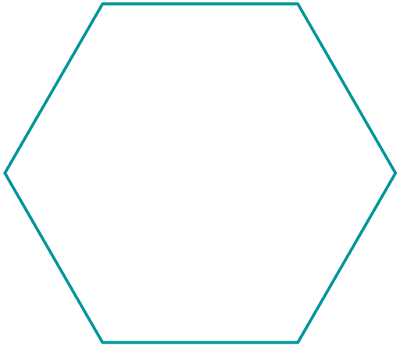
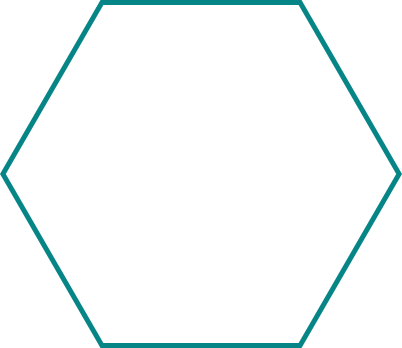
Fixing the Upcoming Projects page.

diff --git a/upcoming.html b/upcoming.html
@@ -49,37 +49,37 @@
 			<div class="honeycombs">
 				<!-- one -->
 				<div class="comb">
-					<img src="images/red.png" />
-					<div class="hexlabel">
-						<p>Fire Safety<br />patches<br />& t-shirts</p>
+					<img src="images/blue.png" />
+					<div class="hexlabel-upcoming">
+						<p>Fire Safety<br />patches & t-shirts</p>
 					</div>
 				</div>
 				<!-- two -->
 				<div class="comb">
-					<img src="images/red.png" />
-					<div class="hexlabel">
-						<p>Bike stickers<br />"one less<br />art car"</p>
+					<img src="images/blue.png" />
+					<div class="hexlabel-upcoming">
+						<p>Bike stickers<br />"one less art car"</p>
 					</div>
 				</div>
 				<!-- three -->
 				<div class="comb">
-					<img src="images/red.png" />
-					<div class="hexlabel">
-						<p>Bike<br />brake lights</p>
+					<img src="images/blue.png" />
+					<div class="hexlabel-upcoming">
+						<p>Bike brake lights</p>
 					</div>
 				</div>
 				<!-- four -->
 				<div class="comb">
-					<img src="images/red.png" />
-					<div class="hexlabel">
-						<p>cardboard<br />standing<br />desk</p>
+					<img src="images/blue.png" />
+					<div class="hexlabel-upcoming">
+						<p>Cardboard<br />standing desk</p>
 					</div>
 				</div>
 				<!-- five -->
 				<div class="comb">
-					<img src="images/red.png" />
-					<div class="hexlabel">
-						<p>Bags from<br />t-shirts</p>
+					<img src="images/blue.png" />
+					<div class="hexlabel-upcoming">
+						<p>Carrier bags<br />from t-shirts</p>
 					</div>
 				</div>
 				

diff --git a/css/main.css b/css/main.css
@@ -68,6 +68,18 @@ h1 {
     color: #112F41;
     z-index: 1;
 }
+.hexlabel-upcoming {
+    position: absolute;
+    font-size: 20pt;
+	padding: 10% 0;
+    height: 100%;
+    width: 100%;
+    color: #575057;
+    z-index: 1;
+}
+.hexlabel-upcoming p {
+	padding: 12% 0;
+}
 
 /* parameters for resume pdf display */
 /* creating a div allows it to resize */
